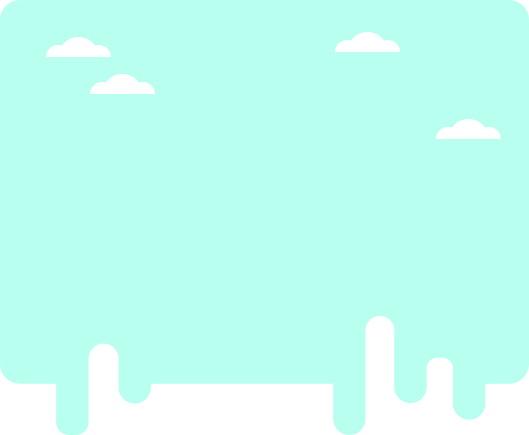
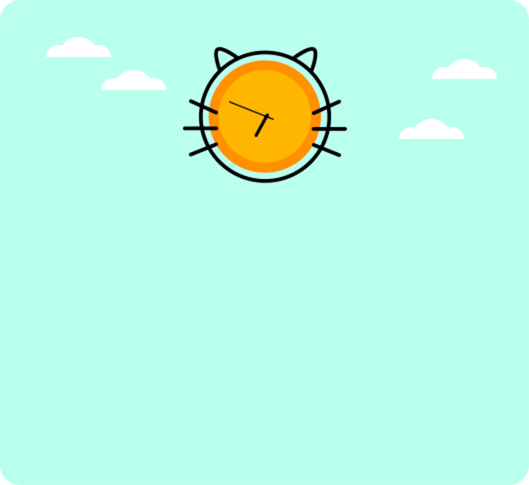
打卡超时样式修改

diff --git a/public/src/component/sleepRank.vue b/public/src/component/sleepRank.vue
@@ -4,17 +4,15 @@
         <!--新增打卡失败场景-->
         <div class="record_loseBox weui-mask weui-animate-fade-in" v-show="isLose" @click="hideLoseBox()">
             <div class="diglog_lose" :class="{'morning_lose':!isNight,'night_lose':isNight}">
-                <div class="title_lose">打卡失败</div>
+                <div class="title_lose">错过打卡时间</div>
                 <div class="record_time">
-                    <template v-if="isNight">早睡</template><template v-if="!isNight">早起</template>打卡时间：<template v-if="!isNight">{{MORNING_FROM_TIME}}-{{MORNING_END_TIME}}</template>
+                    <template v-if="isNight">早睡</template><template v-if="!isNight">早起</template>打卡时间段：<template v-if="!isNight">{{MORNING_FROM_TIME}}-{{MORNING_END_TIME}}</template>
                     <template v-if="isNight">{{NIGHT_FROM_TIME}}-{{NIGHT_END_TIME}}</template> </div>
-                <p>今天有{{allCount}}位小伙伴参与<template v-if="isNight">早睡</template><template v-if="!isNight">早起</template>打卡，设置打卡提醒和他们一起<template v-if="isNight">早睡</template><template v-if="!isNight">早起</template>吧，<template v-if="!isNight">坚持早起打卡，遇见更好的自己！</template> <template v-if="isNight"> 生活不易你要懂得照顾自己！</template></p>
-                <img v-if="!isNight" class="status_img" src="../images/morning_status.png" alt="">
-                <img v-if="isNight" class="status_img" src="../images/night_status.png" alt="">
                 <div class="lose_bottom" :class="{'morning_bottom':!isNight,'night_bottom':isNight}" @click="set()">
                     设置<template v-if="!isNight">早起</template><template v-if="isNight">早睡</template>打卡提醒
                 </div>
             </div>
+            <img class="close_btn" src="../images/close_loseBox.png" alt="">
         </div>
         <div class="myshare" v-show="isShowShareTip" @click="share()">
         </div>
@@ -184,19 +182,19 @@
 </template>
 <style>
     /*新增打卡失败*/
-    .record_loseBox{z-index:10001 !important;}
-    .diglog_lose{position: relative;width:15.588rem;position: absolute;top:20%;left:50%;margin-left: -7.794rem;padding:1.235rem 0 4rem 0;text-align: center;}
-    .morning_lose{background: url("../images/morning_lose.png") no-repeat;background-size: 100% 100%;color:rgba(51,51,51,1);}
-    .night_lose{background: url("../images/night_lose.png") no-repeat;background-size: 100% 100%;color:rgba(255,255,255,1)}
-    .title_lose{font-size: 1.35rem;line-height: 1;margin-bottom: 0.588235rem;}
-    .record_time{font-size: 0.6471rem;line-height: 1;margin-bottom: 1.176471rem;}
-    .diglog_lose p{font-size: 0.76471rem;text-align: left;line-height: 1.35rem;padding:0 0.88235rem}
-    .status_img{width:1.176471rem;position: absolute;bottom:-1.176471rem;left:50%;margin-left: -0.588235rem;}
-    .lose_bottom{width:10.8235rem;height:2.588235rem;font-size: 0.88235rem;color:#fff;line-height: 3rem;position: absolute;bottom:-4.588rem;left:50%;margin-left: -5.41175rem;}
-    .morning_bottom{background: url("../images/lose_bottom1.png") no-repeat;background-size: 100% 100%;}
-    .night_bottom{background: url("../images/lose_bottom2.png") no-repeat;background-size: 100% 100%;}
-    .morning_bottom:active{background: url("../images/lose_bottom3.png") no-repeat;background-size: 100% 100%;}
-    .night_bottom:active{background: url("../images/lose_bottom4.png") no-repeat;background-size: 100% 100%;}
+    .sleep_rank_box .record_loseBox{z-index:10001 !important;}
+    .sleep_rank_box .record_loseBox .diglog_lose{width:15.588rem;height:14.294rem;position: absolute;top:20%;left:50%;margin-left: -7.794rem;text-align: center;padding:0}
+    .sleep_rank_box .morning_lose{background: url("../images/morning_lose.png") no-repeat;background-size: 100% 100%;color:rgba(51,51,51,1);}
+    .sleep_rank_box .night_lose{background: url("../images/night_lose.png") no-repeat;background-size: 100% 100%;color:rgba(255,255,255,1)}
+    .sleep_rank_box .title_lose{font-size: 1.0588rem;line-height: 1;width:100%;position: absolute;top:46%;}
+    .sleep_rank_box .record_time{font-size: 0.6471rem;line-height: 1;position: absolute;width:100%;top:58%;}
+    .sleep_rank_box .diglog_lose p{font-size: 0.76471rem;text-align: left;line-height: 1.35rem;padding:0 0.88235rem}
+    .sleep_rank_box .lose_bottom{width:10.8235rem;height:2.1176471rem;font-size: 0.88235rem;color:#fff;line-height: 2.12rem;position: absolute;bottom:10%;left:50%;margin-left: -5.41175rem;border-radius: 1rem;}
+    .sleep_rank_box .morning_bottom{background: rgba(251,184,40,1);}
+    .sleep_rank_box .night_bottom{background: rgba(53,49,69,1);}
+    .sleep_rank_box .morning_bottom:active{background:#d69c21;}
+    .sleep_rank_box .night_bottom:active{background: #37314f;}
+    .sleep_rank_box .close_btn{display: block;width:1.471rem;position: absolute; bottom: 25%; left: 50%;margin-left: -0.7355rem;}
     .day_or_night{
         position: absolute;
         display: flex;

diff --git a/public/src/component/index.vue b/public/src/component/index.vue
@@ -1367,17 +1367,14 @@
 
 /*新增打卡失败*/
     .record_loseBox{z-index:10001 !important;}
-    .diglog_lose{position: relative;width:15.588rem;position: absolute;top:20%;left:50%;margin-left: -7.794rem;padding:1.235rem 0 4rem 0;text-align: center;}
-    .morning_lose{background: url("../images/morning_lose.png") no-repeat;background-size: 100% 100%;color:rgba(51,51,51,1);}
-    .night_lose{background: url("../images/night_lose.png") no-repeat;background-size: 100% 100%;color:rgba(255,255,255,1)}
-    .title_lose{font-size: 1.35rem;line-height: 1;margin-bottom: 0.588235rem;}
-    .record_time{font-size: 0.6471rem;line-height: 1;margin-bottom: 1.176471rem;}
-    .diglog_lose p{font-size: 0.76471rem;text-align: left;line-height: 1.35rem;padding:0 0.88235rem}
-    .status_img{width:1.176471rem;position: absolute;bottom:-1.176471rem;left:50%;margin-left: -0.588235rem;}
-    .morning_bottom{background: url("../images/lose_bottom1.png") no-repeat;background-size: 100% 100%;}
-    .night_bottom{background: url("../images/lose_bottom2.png") no-repeat;background-size: 100% 100%;}
-    .morning_bottom:active{background: url("../images/lose_bottom3.png") no-repeat;background-size: 100% 100%;}
-    .night_bottom:active{background: url("../images/lose_bottom4.png") no-repeat;background-size: 100% 100%;}
+   .record_loseBox .diglog_lose{position: relative;width:15.588rem;position: absolute;top:20%;left:50%;margin-left: -7.794rem;padding:1.235rem 0 4rem 0;text-align: center;}
+    .record_loseBox .morning_lose{background: url("../images/morning_lose.png") no-repeat;background-size: 100% 100%;color:rgba(51,51,51,1);}
+    .record_loseBox .night_lose{background: url("../images/night_lose.png") no-repeat;background-size: 100% 100%;color:rgba(255,255,255,1)}
+    .record_loseBox .title_lose{font-size: 1.35rem;line-height: 1;margin-bottom: 0.588235rem;}
+    .record_loseBox .record_time{font-size: 0.6471rem;line-height: 1;margin-bottom: 1.176471rem;}
+    .record_loseBox .diglog_lose p{font-size: 0.76471rem;text-align: left;line-height: 1.35rem;padding:0 0.88235rem}
+    .record_loseBox .status_img{width:1.176471rem;position: absolute;bottom:-1.176471rem;left:50%;margin-left: -0.588235rem;}
+
 
     .index_btns {
         height: 5.5rem;
